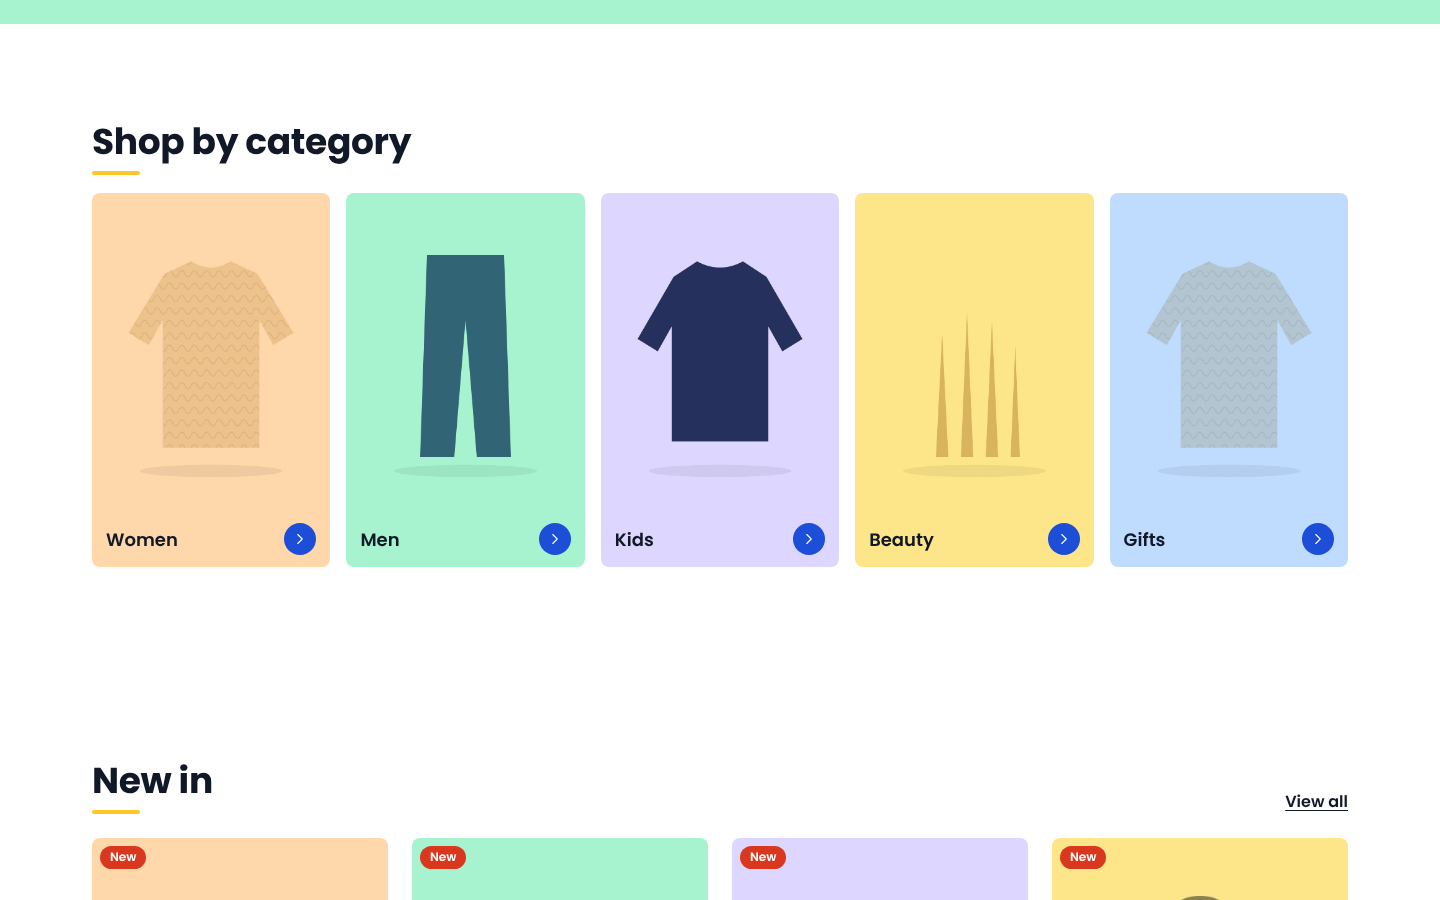
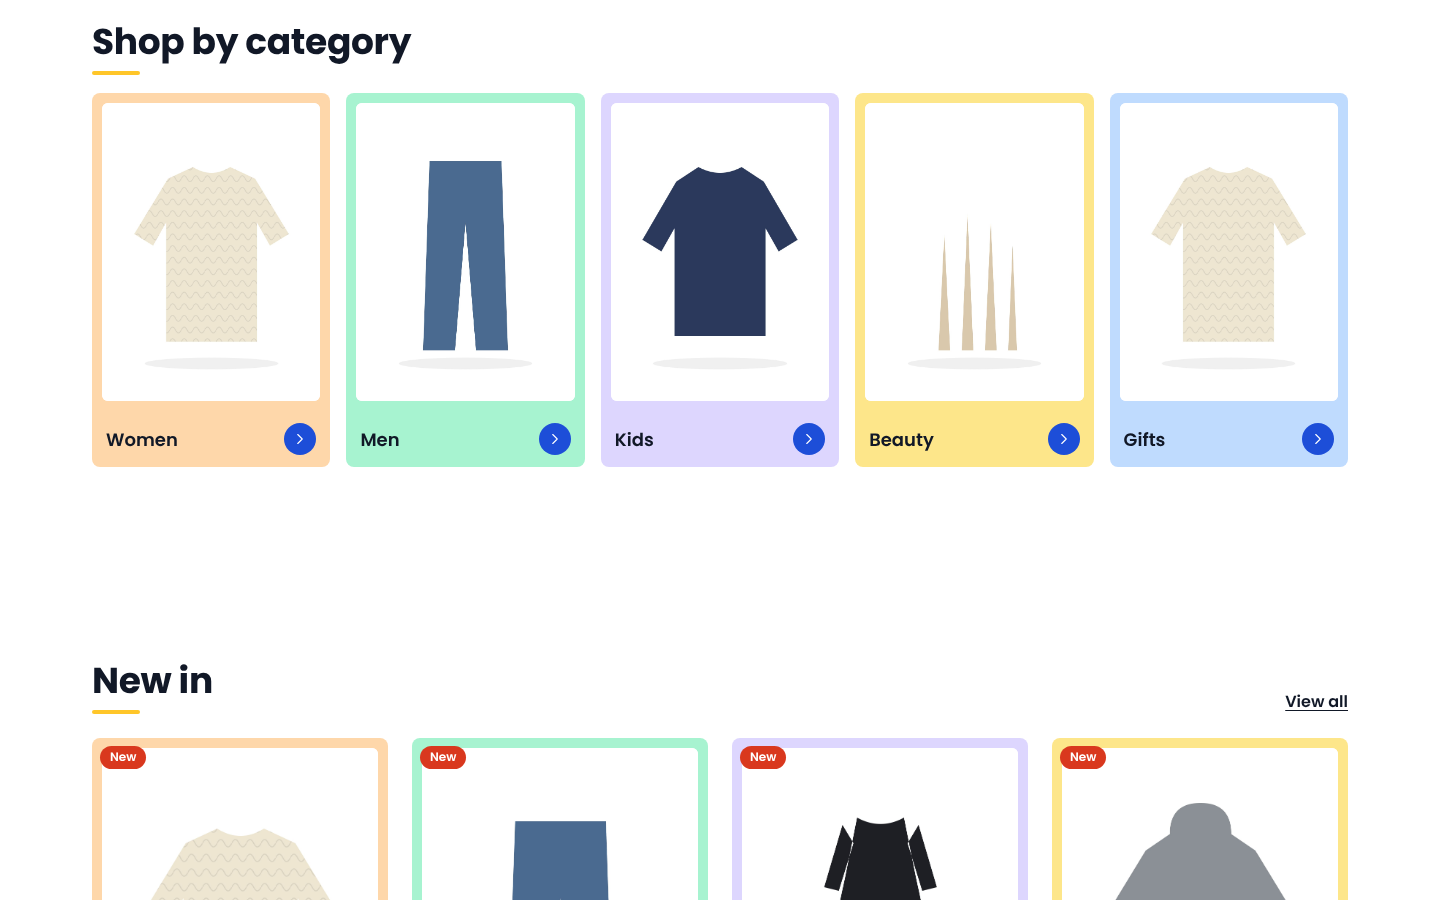
Solid sky-blue hero, navy trust strip, photos in true colour
Replaces the peach-yellow-green hero gradient and mint strip with a solid hero colour
(theme setting, sky blue by default) and a navy trust strip with yellow icons. Removes the
multiply blend that tinted product photos; photos now sit in a white frame inside coloured cards.

Claude-Session: https://claude.ai/code/session_01DeacWXoWn9bGQYXVPzxuUJ

diff --git a/theme/assets/base.css b/theme/assets/base.css
@@ -196,8 +196,8 @@ cart-items, facet-form, load-more, newsletter-popup, recently-viewed, product-re
 .grid > li:nth-child(5n+3) .card__media .media, .scroll-row > li:nth-child(5n+3) .card__media .media { background: var(--color-lilac); }
 .grid > li:nth-child(5n+4) .card__media .media, .scroll-row > li:nth-child(5n+4) .card__media .media { background: var(--color-butter); }
 .grid > li:nth-child(5n+5) .card__media .media, .scroll-row > li:nth-child(5n+5) .card__media .media { background: var(--color-plume); }
-/* Light photo backgrounds take on the card tint; the product itself keeps its colours. */
-.card__media .media img { mix-blend-mode: multiply; }
+/* Photos keep their true colours, framed by the card colour. */
+.card__media .media img { inset: 10px; width: calc(100% - 20px); height: calc(100% - 20px); border-radius: 6px; object-fit: cover; background: #fff; }
 .card .price { color: var(--color-deep); }
 .card__quick-add .button:hover { background: var(--color-kingfisher); color: var(--color-paper); }
 .card__quick-add .button { width: 100%; min-height: 44px; padding: 8px 12px; font-size: 0.875rem; }

diff --git a/theme/assets/section-product.css b/theme/assets/section-product.css
@@ -4,8 +4,7 @@
 @media (min-width: 990px) { .product__info { position: sticky; top: 96px; } }
 .product__title { margin: 0; font-size: 1.75rem; }
 .product__info .price { color: var(--color-deep); }
-.product__gallery .media { border-radius: 8px; background: var(--color-plume); }
-.product__gallery .media img { mix-blend-mode: multiply; }
+.product__gallery .media { border-radius: 8px; background: #fff; }
 @media (min-width: 990px) { .product__title { font-size: 2.25rem; } }
 .product__installments { font-size: 0.875rem; margin-bottom: 16px; min-height: 20px; }
 .product__buy { display: grid; grid-template-columns: 96px 1fr; gap: 8px; align-items: end; }

diff --git a/CHANGELOG.md b/CHANGELOG.md
@@ -7,7 +7,10 @@ Theme releases are tagged in Git (`v2.0.0` upward). Store schema changes bump `S
 ### Brighter colours (operator request: "colours look faint and dull")
 - Vivid palette: royal blue #1D4ED8 header and buttons, navy #172554 footer, sunshine #FFC629 highlights, coral #D9381E,
   raspberry #BE185D, and saturated sky, mint, peach, lilac, butter and pink backgrounds on a pure white page.
-- Photo areas take on the section colour (light photo backgrounds blend in). All pairs still pass WCAG AA.
+- Hero is one solid colour (sky blue by default, editable) instead of a gradient; the trust strip below is navy with
+  yellow icons, so the top of the page is one blue family.
+- Product photos always show their true colours: they sit in a white frame inside the coloured card, never blended
+  with the background. All pairs still pass WCAG AA.
 
 ### Font change (operator request)
 - Poppins for headings and body, from Shopify's font library (no self-hosted font files). Montserrat or Helvetica can be picked in Theme settings > Typography.
